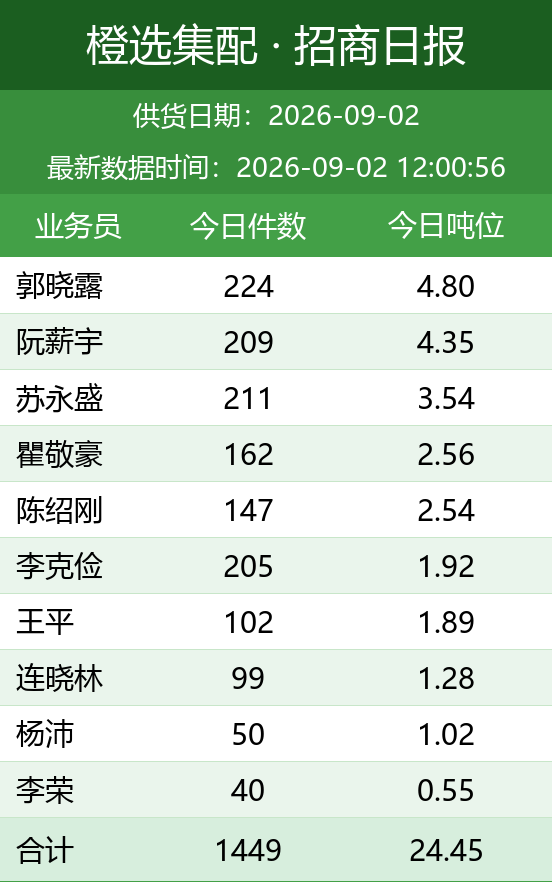
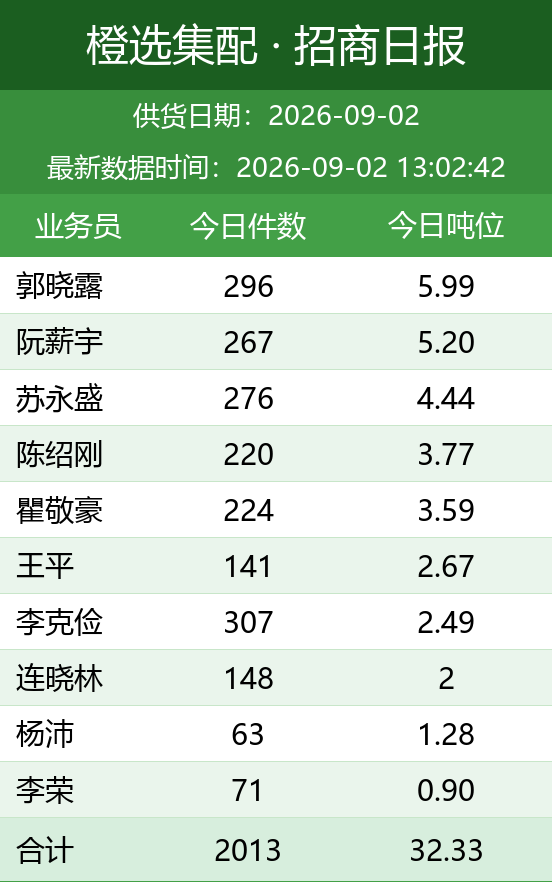
自动更新日报图片

diff --git a/index.html b/index.html
@@ -11,7 +11,7 @@ img { max-width: 100%; border: 1px solid #e5e5e5; margin-bottom: 24px; display: 
 </style>
 </head>
 <body>
-<h1>橙选集配日报图片（20260902_120101）</h1>
+<h1>橙选集配日报图片（20260902_130247）</h1>
 <img src="bd_latest.png" alt="BD 日报">
 <img src="wh_latest.png" alt="城市仓日报">
 <img src="zs_latest.png" alt="招商日报">
